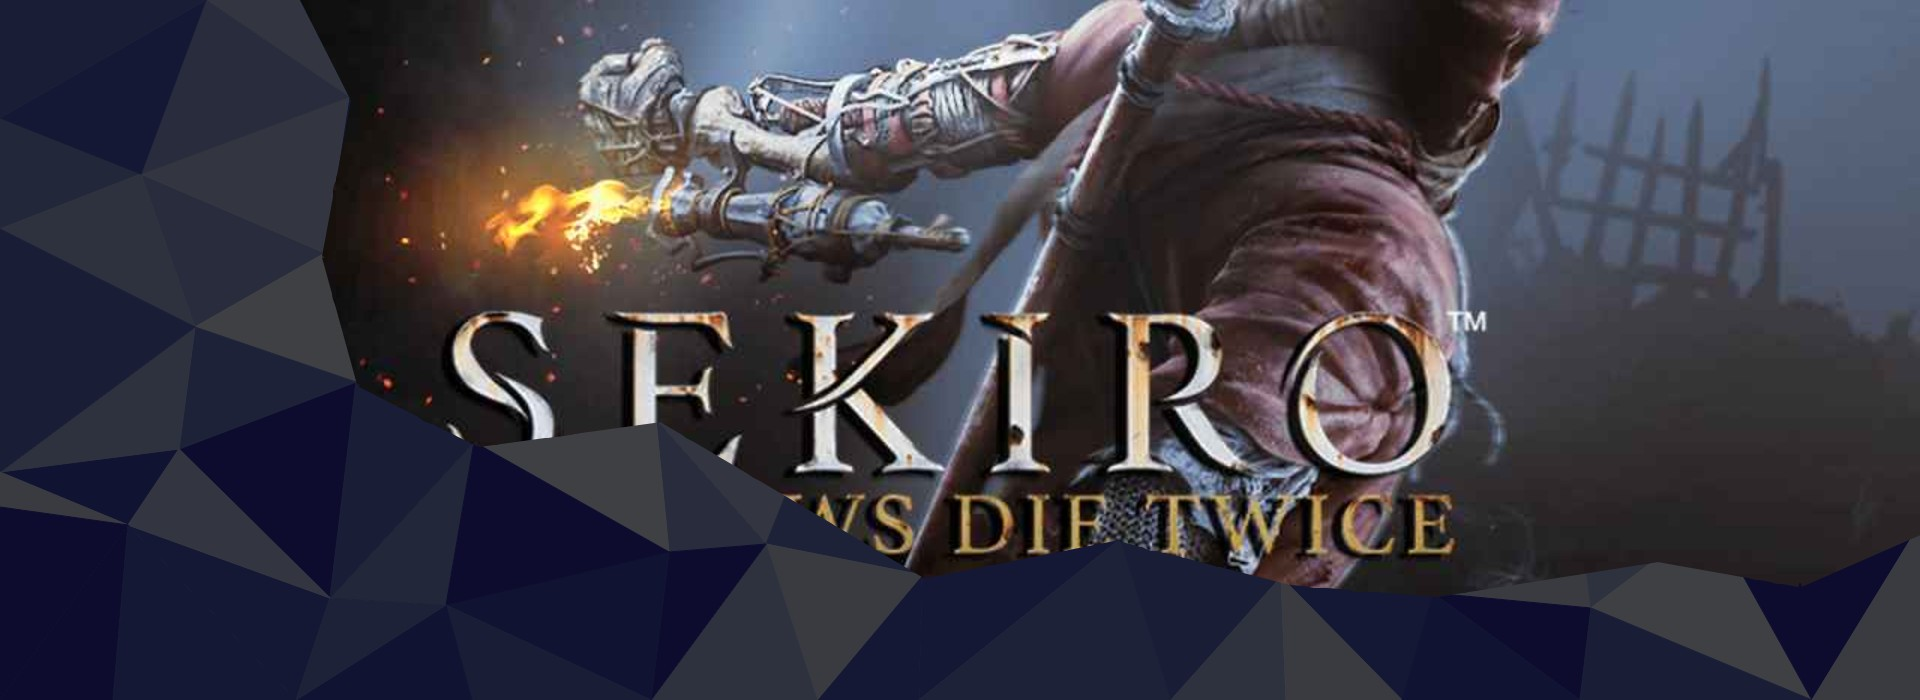
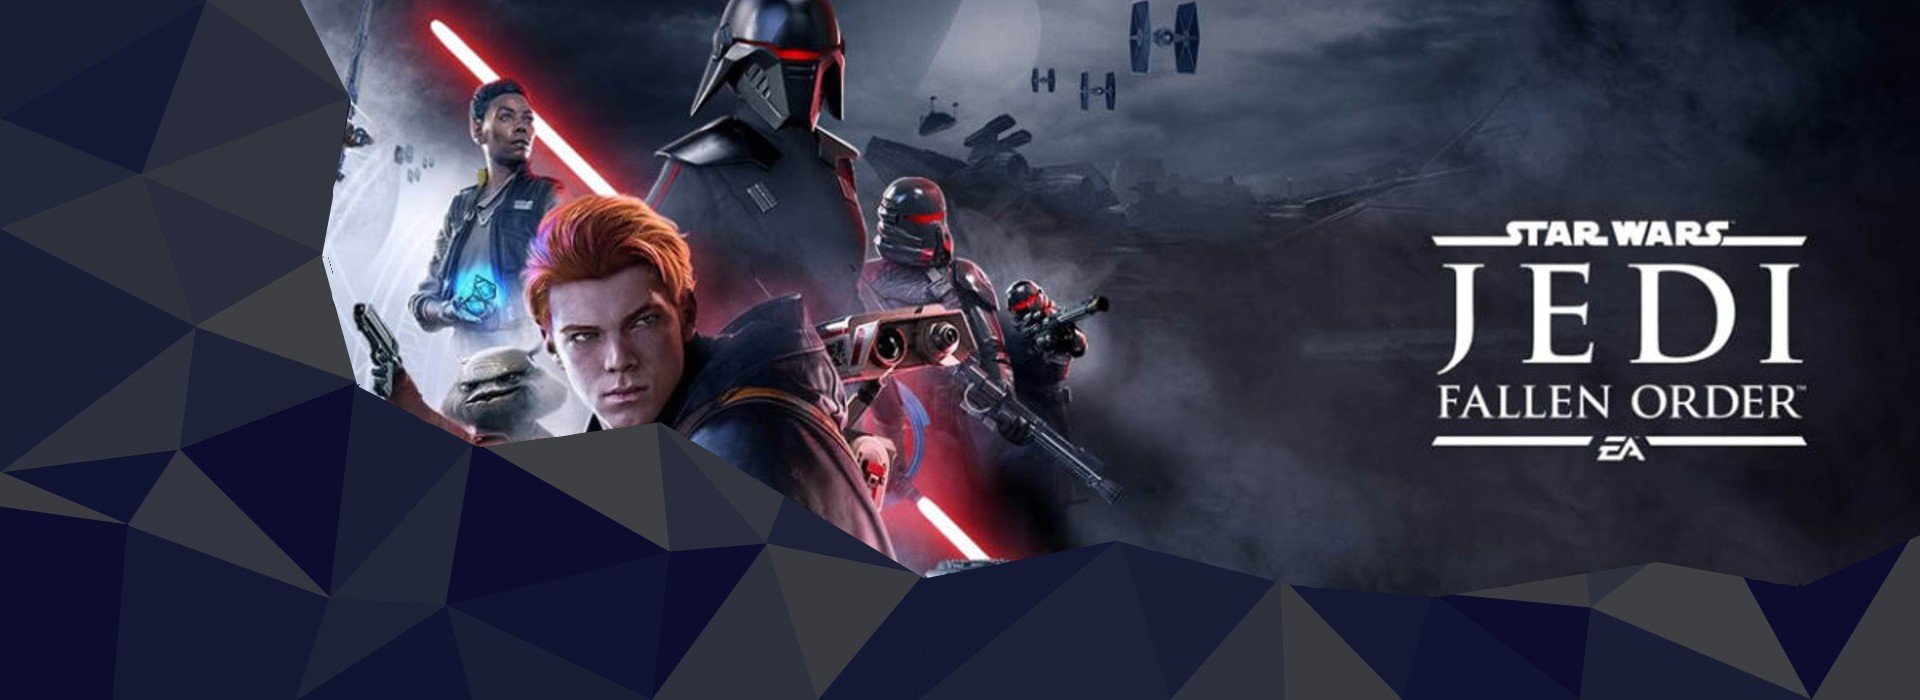
actualizacion 5/5

diff --git a/index.html b/index.html
@@ -61,7 +61,7 @@
                         <div class="carousel-caption d-md-block">
                             <h3 class="text-tipo2">Epic Games</h3>
                             <p class="text-tipo2">Descarga tu juego gratis de esta semana</p>
-                            <a href="https://store.epicgames.com/es-MX/p/just-die-already" target="_blank"><button class="boton">Consiguelo</button></a>
+                            <a href="https://store.epicgames.com/es-MX/p/terraforming-mars-18c3ad" target="_blank"><button class="boton">Consiguelo</button></a>
                         </div>
                     </div>
                     <div class="carousel-item mislider">
@@ -92,8 +92,8 @@
                         <img src="multimedia/images/slider/slider5.jpg" class="d-block w-100" alt="imagen carrusel">
                         <div class="carousel-caption d-md-block">
                             <h3 class="text-tipo2">Recomendacion</h3>
-                            <p class="text-tipo2">Sekiro : Shadow die twice<br>50% off hasta el 9/5</p>
-                            <a href="https://store.steampowered.com/app/814380/Sekiro_Shadows_Die_Twice__GOTY_Edition/" target="_blank"><button class="boton">Compralo</button></a>
+                            <p class="text-tipo2">Star wars: The fallen order<br>75% off hasta el 10/5</p>
+                            <a href="https://store.steampowered.com/app/1172380/STAR_WARS_Jedi_La_Orden_cada/" target="_blank"><button class="boton">Compralo</button></a>
                         </div>
                     </div>
                 </div>
@@ -113,31 +113,31 @@
             <h2 class="sub_title text-tipo1">Ultimas noticias</h2>
             <div class="info_1 fondo">
                 <div>                
-                    <h3 class="texto_h3 titulo_info1">Valorant</h3>
-                    <p class="texto_p parrafo_info1">La nueva agente de VALORANT controla las pesadillas para poder localizar y dañar a los enemigos. Fade tiene como habilidades especiales: Tormento, Apresar, Acechador y Ocaso, todas ellas destinadas a localizar a tu enemigo y causarle declive durante unos instantes. Es en ese momento cuando tú y tu equipo tenéis que coordinaros para atacar a los objetivos</p>
+                    <h3 class="texto_h3 titulo_info1">Trek to Yomi</h3>
+                    <p class="texto_p parrafo_info1">Este 5 de mayo se estrena Trek to Yomi, esta aventura ambientada en la epoca medieval asiatica el cual busca sorprender a sus jugadores con su jugabilidad y apartado grafico en blanco y negro, sin lugar a dudas un juego que ya tenemos ganas de probar</p>
                 </div> 
                 <div> 
-                    <iframe width="560" height="315" src="https://www.youtube.com/embed/L7z0UrOgGwY" title="YouTube video player" frameborder="0" allow="accelerometer; autoplay; clipboard-write; encrypted-media; gyroscope; picture-in-picture" allowfullscreen></iframe>
+                    <iframe width="560" height="315" src="https://www.youtube.com/embed/Nw2hx6uB7dQ" title="YouTube video player" frameborder="0" allow="accelerometer; autoplay; clipboard-write; encrypted-media; gyroscope; picture-in-picture" allowfullscreen></iframe>
                 </div> 
             </div>
 
             <div class="info_2 fondo">
                 <div class="video_2">
-                    <iframe width="560" height="315" src="https://www.youtube.com/embed/-VkO8Vlsf5M" title="YouTube video player" frameborder="0" allow="accelerometer; autoplay; clipboard-write; encrypted-media; gyroscope; picture-in-picture" allowfullscreen></iframe>
+                    <iframe width="560" height="315" src="https://www.youtube.com/embed/vH_trHyoEBY" title="YouTube video player" frameborder="0" allow="accelerometer; autoplay; clipboard-write; encrypted-media; gyroscope; picture-in-picture" allowfullscreen></iframe>
                 </div>
                 <div>
-                    <h3 class="texto_h3 titulo_info2">Age of empire II</h3>
-                    <p class="texto_p parrafo_info2">Esta expansión trae tres civilizaciones jugables de la India a Age of Empires II: Definitive Edition por primera vez, con tres campañas con voz completa y nuevos logros. Las civilizaciones indias brindan una amplia gama de contenido adicional, que incluye nueve unidades nuevas, 15 emocionantes nuevos juegos para un solo jugador.</p>  
+                    <h3 class="texto_h3 titulo_info2">Lego: Star wars The Skywalker Saga</h3>
+                    <p class="texto_p parrafo_info2">Llega un DLC para Lego: Star wars The Skaywalker saga, donde podremos jugar con una gran cantidad de nuevos personajes jugables, incluyendo pack de The mandalorian temporada 1 y 2, SOLO una pelicula de star wars, Rogue one, bad batch y personajes clasicos y soldados, diviertete en este fantastico juego que recorre las 9 peliculas de la saga, Con más de 300 personajes jugables, más de 100 vehículos y 23 planetas para explorar</p>  
                 </div>    
             </div>
 
             <div class="info_1 fondo">
                 <div>                
-                    <h3 class="texto_h3 titulo_info1">Call of duty</h3>
-                    <p class="texto_p parrafo_info1">Ya esta aqui el nuevo pase de batalla de Call of duty Vanguard / Warzone, prepárate con el Pase de batalla "Armas clasificadas" de la tercera temporada el 27 de abril en Vanguard y Warzone.</p>
+                    <h3 class="texto_h3 titulo_info1">Teamfight Tactics</h3>
+                    <p class="texto_p parrafo_info1">Aprende como ganar tus partidas utilizando la composcicion de Sivir con atacantes en eeste divertido video de Consejos tacticos</p>
                 </div> 
                 <div> 
-                    <iframe width="560" height="315" src="https://www.youtube.com/embed/ib0Iw6HhiUg" title="YouTube video player" frameborder="0" allow="accelerometer; autoplay; clipboard-write; encrypted-media; gyroscope; picture-in-picture" allowfullscreen></iframe>
+                    <iframe width="560" height="315" src="https://www.youtube.com/embed/gEcgoW7-qfI" title="YouTube video player" frameborder="0" allow="accelerometer; autoplay; clipboard-write; encrypted-media; gyroscope; picture-in-picture" allowfullscreen></iframe>
                 </div> 
             </div>
         </section>
